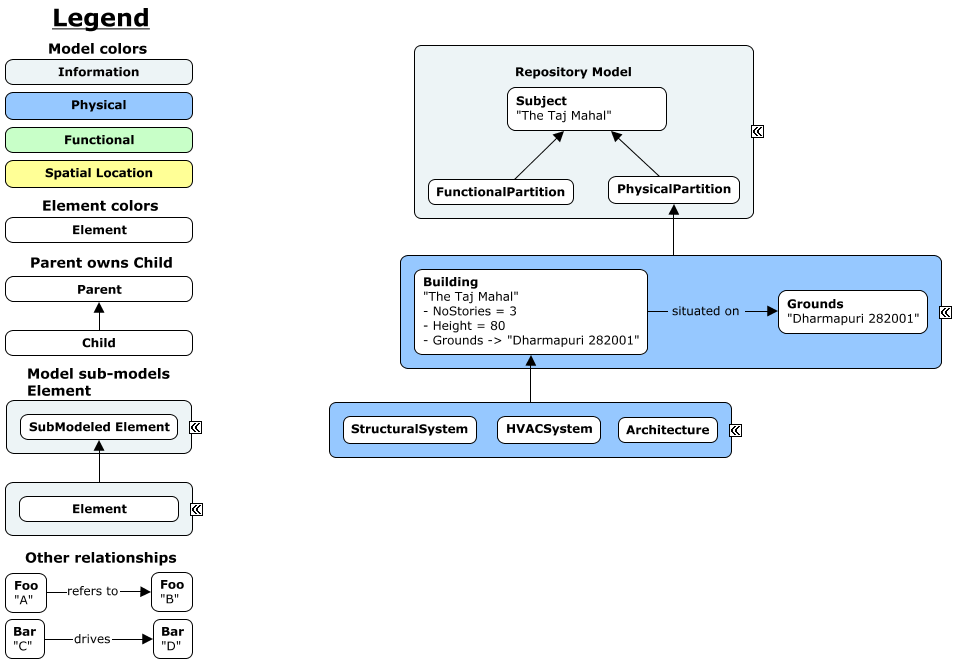
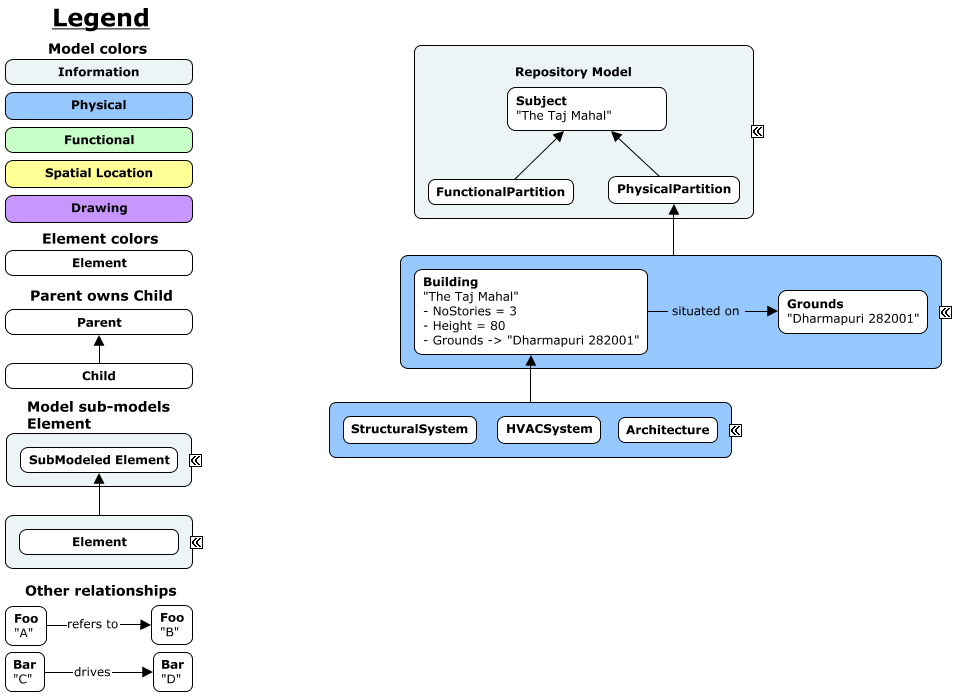
Add default color for Drawing models in cmap instance style guide

diff --git a/docs/schema-cmap-instance-style-guide.md b/docs/schema-cmap-instance-style-guide.md
@@ -14,6 +14,7 @@ For **Models** colors are determined by the type of the model:
 - `Physical` - light blue (#96C8FF)
 - `Functional` - light green (#C8FFC8)
 - `Spatial Location` - light yellow (#FFFF96)
+- `Drawing` - purple (#C896FF)
 
 ![Model colors](.\cmap-example\media\instance\colors-models.png)
 
